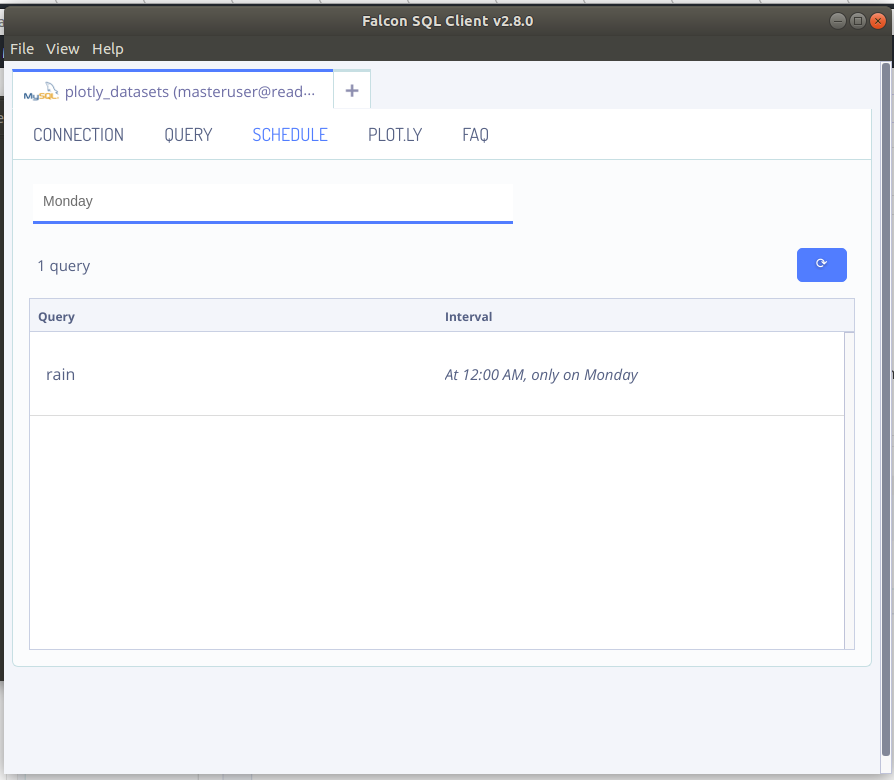
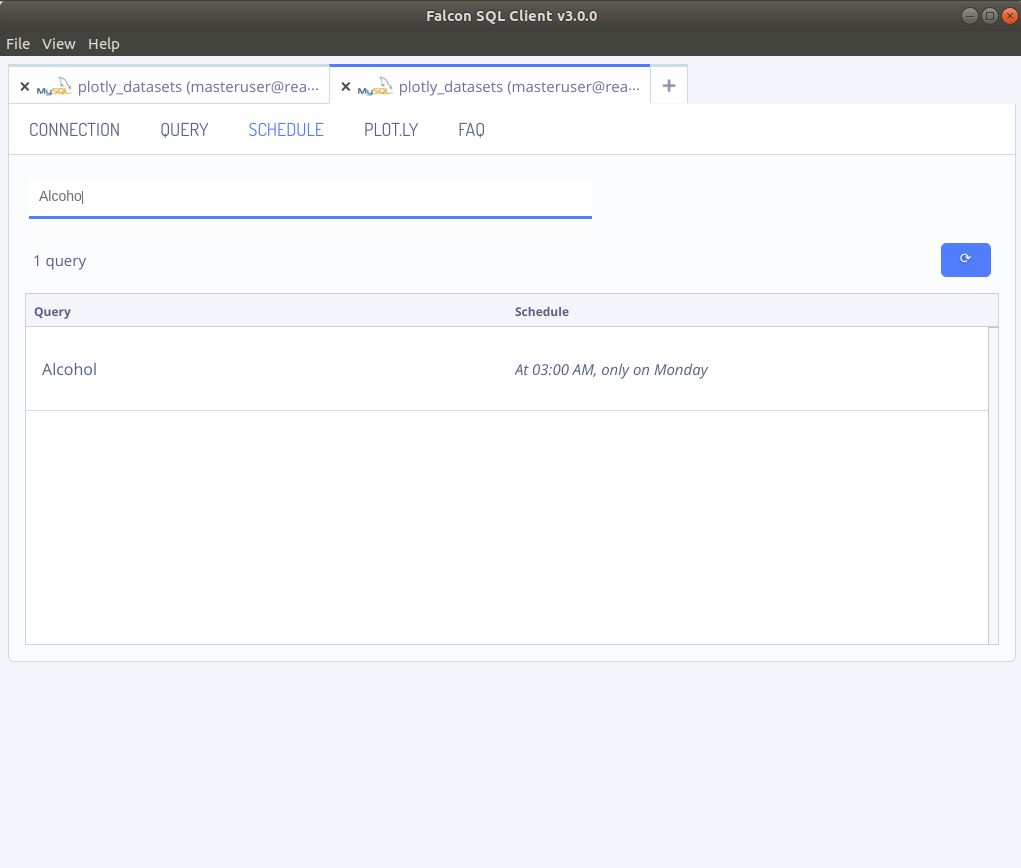
updated doc to reflect falcon 3.0 release

diff --git a/_posts/falcon/2018-07-23-view-and-edit-scheduled-queries-falcon.md b/_posts/falcon/2018-07-23-view-and-edit-scheduled-queries-falcon.md
@@ -7,18 +7,18 @@ imageurl:  /static/images/falcon/logos/query-from-falcon.png
 state: active
 tags: advanced
 section: Basics
-meta_description: View and search through your list of scheduled queries created by Falcon.
+meta_description: View, Edit and search through your list of scheduled queries created by Falcon.
 popularity: featured
 actioncall-url: https://github.com/plotly/electron-sql-connector/releases
 
 steps:
  - title: View Scheduled Queries from Falcon
    sub-steps:
-    - copy: "Open Falcon and navigate to the *SCHEDULE*. Here, you will see a list of all the queries you have scheduled using Falcon."
+    - copy: "Starting with Falcon version 3.0, there is a *SCHEDULE* tab which you can view and edit scheduled queries. After logging into your plot.ly account, go to the *SCHEDULE* tab to see a list of all the queries you have scheduled using Falcon."
       img: "![View Scheduled Queries on Falcon](/static/images/falcon/scheduled-queries-tab/01-falcon-schedule-tab.png)"
  - title: Search Through Queries
    sub-steps:
-    - copy: "Click on the refresh button in the upper right corner if you have updated any queries since opening Falcon. Now you can search through your queries by name, schedule time or query using the search bar. The list below will be updated in real-time as you type."
+    - copy: "Click on the refresh button in the upper right corner if you have updated any queries since opening Falcon. Now you can search through your queries by name or query using the search bar. The list below will be updated in real-time as you type."
       img: "![Search Queries](/static/images/falcon/scheduled-queries-tab/02-falcon-search-queries.png)"
  - title: Query Details
    sub-steps:
